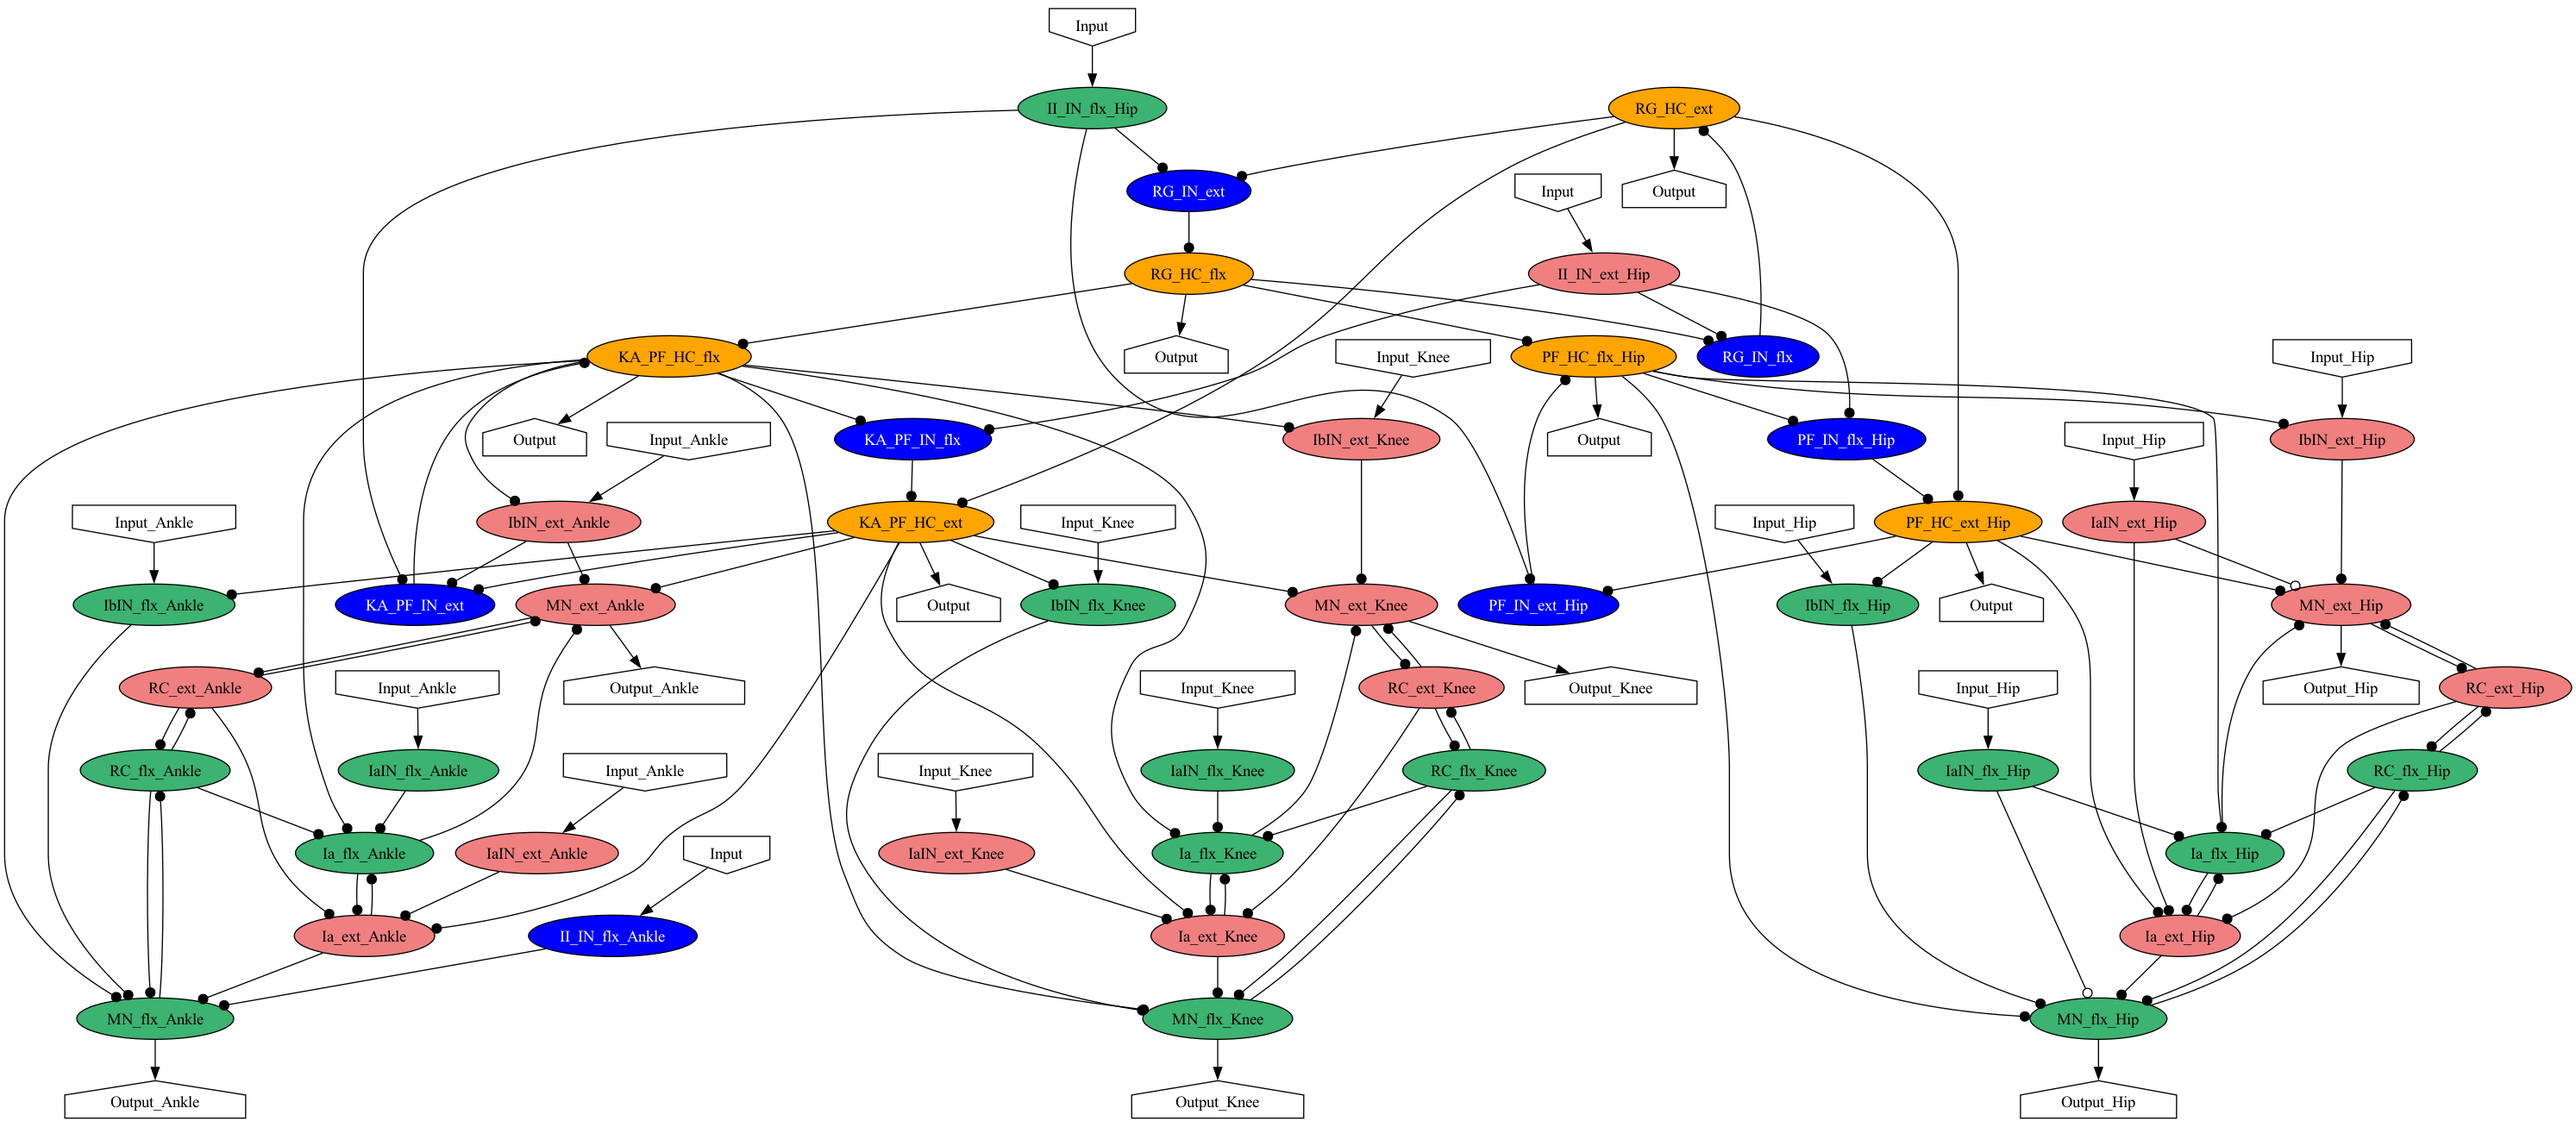
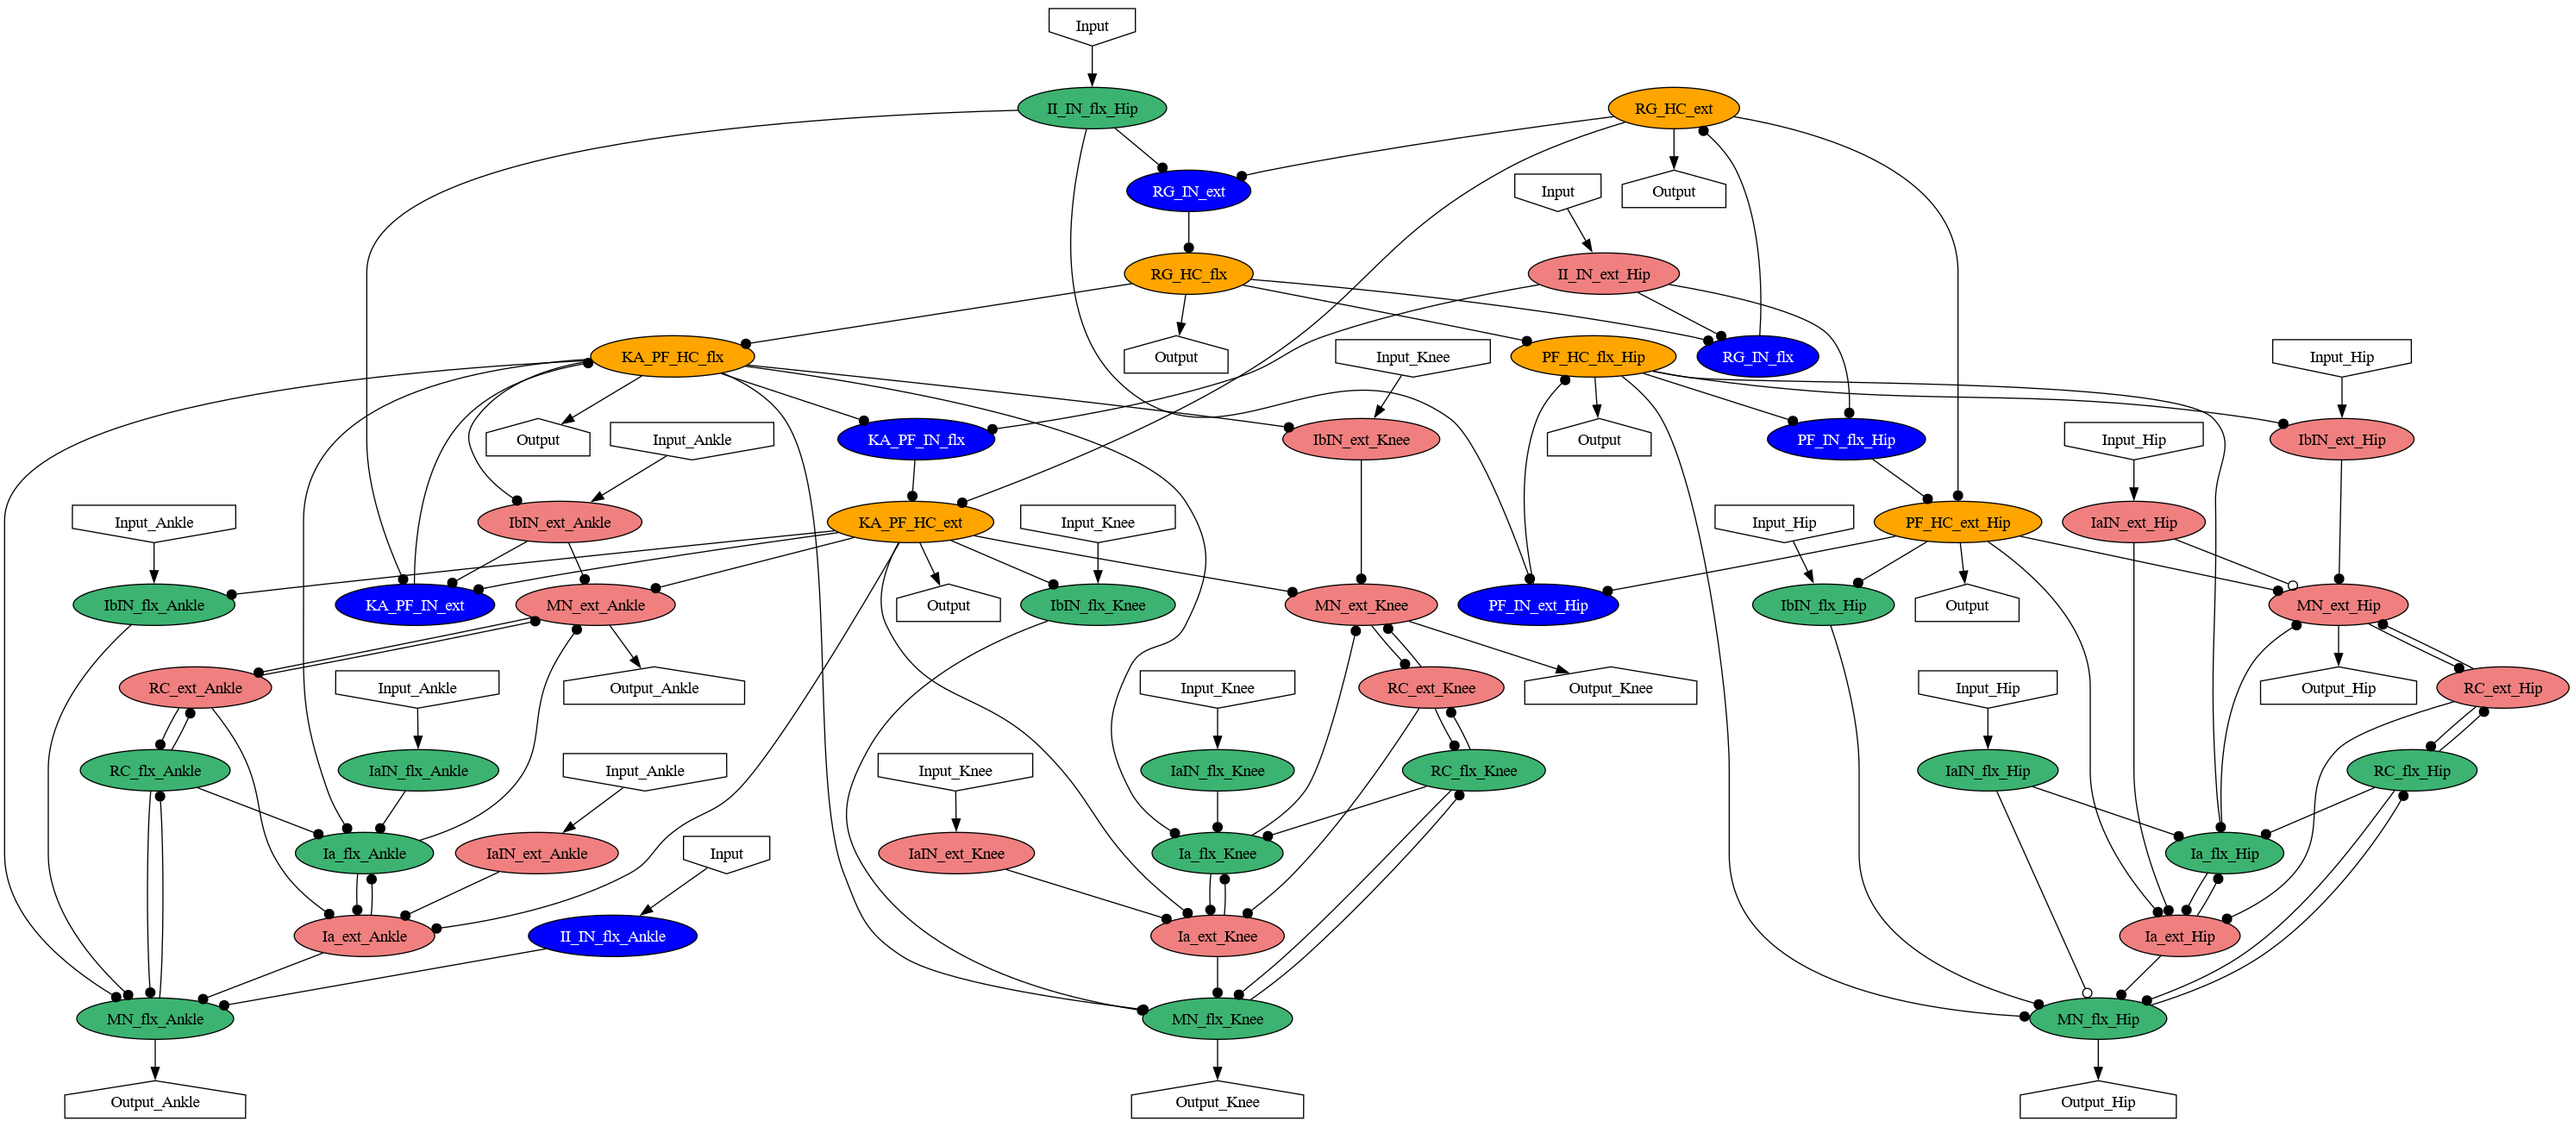
Calibration code added
not working yet!

diff --git a/Python/dog_sitter.py b/Python/dog_sitter.py
@@ -1154,9 +1154,9 @@ def run_sims(dt,
         sense_port.reset_output_buffer() # Clear any existing data in the buffer    
 
         # Potentiometer and pressure sensor calibration
-        sensor_calibration = input()
+        sensor_calibration = input(" === Do you want to calibrate Muscle Mutt's sensors? \n === Type 'yes' if so. Hit [ENTER] to skip. \n === keyboard input: ")
         if sensor_calibration == 'yes':
-            input("Instructions: Straighten Muscle Mutt's joints so that the limbs are perpendicular to the frame. When ready, hit ENTER.")
+            input("\n === Instructions: Straighten Muscle Mutt's joints so that the limbs are perpendicular to the frame. \n === When ready, hit ENTER. \n")
             # DATA STRUCTURES for raw sensor data (to be recorded at each timestep)
             potentiometer_data_0   = {key: np.zeros(num_comms) for key in joint_list}
             pressure_sensor_data_0 = {key: np.zeros(num_comms) for key in muscles_list}
@@ -1170,8 +1170,9 @@ def run_sims(dt,
             np.save(f'Python/data/sensor_data/potentiometer_data.npy', potentiometer_data_0)
             np.save(f'Python/data/sensor_data/pressure_sensor_data.npy', pressure_sensor_data_0)
 
-        potentiometer_data_0 = np.load(f'Python/data/sensor_data/potentiometer_data.npy')
-        pressure_sensor_data_0 = np.load(f'Python/data/sensor_data/pressure_sensor_data.npy')
+        potentiometer_data_0 = np.load(f'Python/data/sensor_data/potentiometer_data.npy', allow_pickle=True)
+        pressure_sensor_data_0 = np.load(f'Python/data/sensor_data/pressure_sensor_data.npy', 
+        allow_pickle=True)
 
         for joint in potentiometer_data.keys():
             potentiometer_data[joint][0] = potentiometer_data_0[joint]
@@ -1466,7 +1467,7 @@ def main():
     dat_thread: handles data receiving and sending between the simulation and Teensy
     """
 
-    muscle_mutt = False  # If True : configured for communication to Muscle Mutt robot
+    muscle_mutt = True  # If True : configured for communication to Muscle Mutt robot
                          # If False: configured for communication to MuJoCo Model
     fore_limbs = False
 
